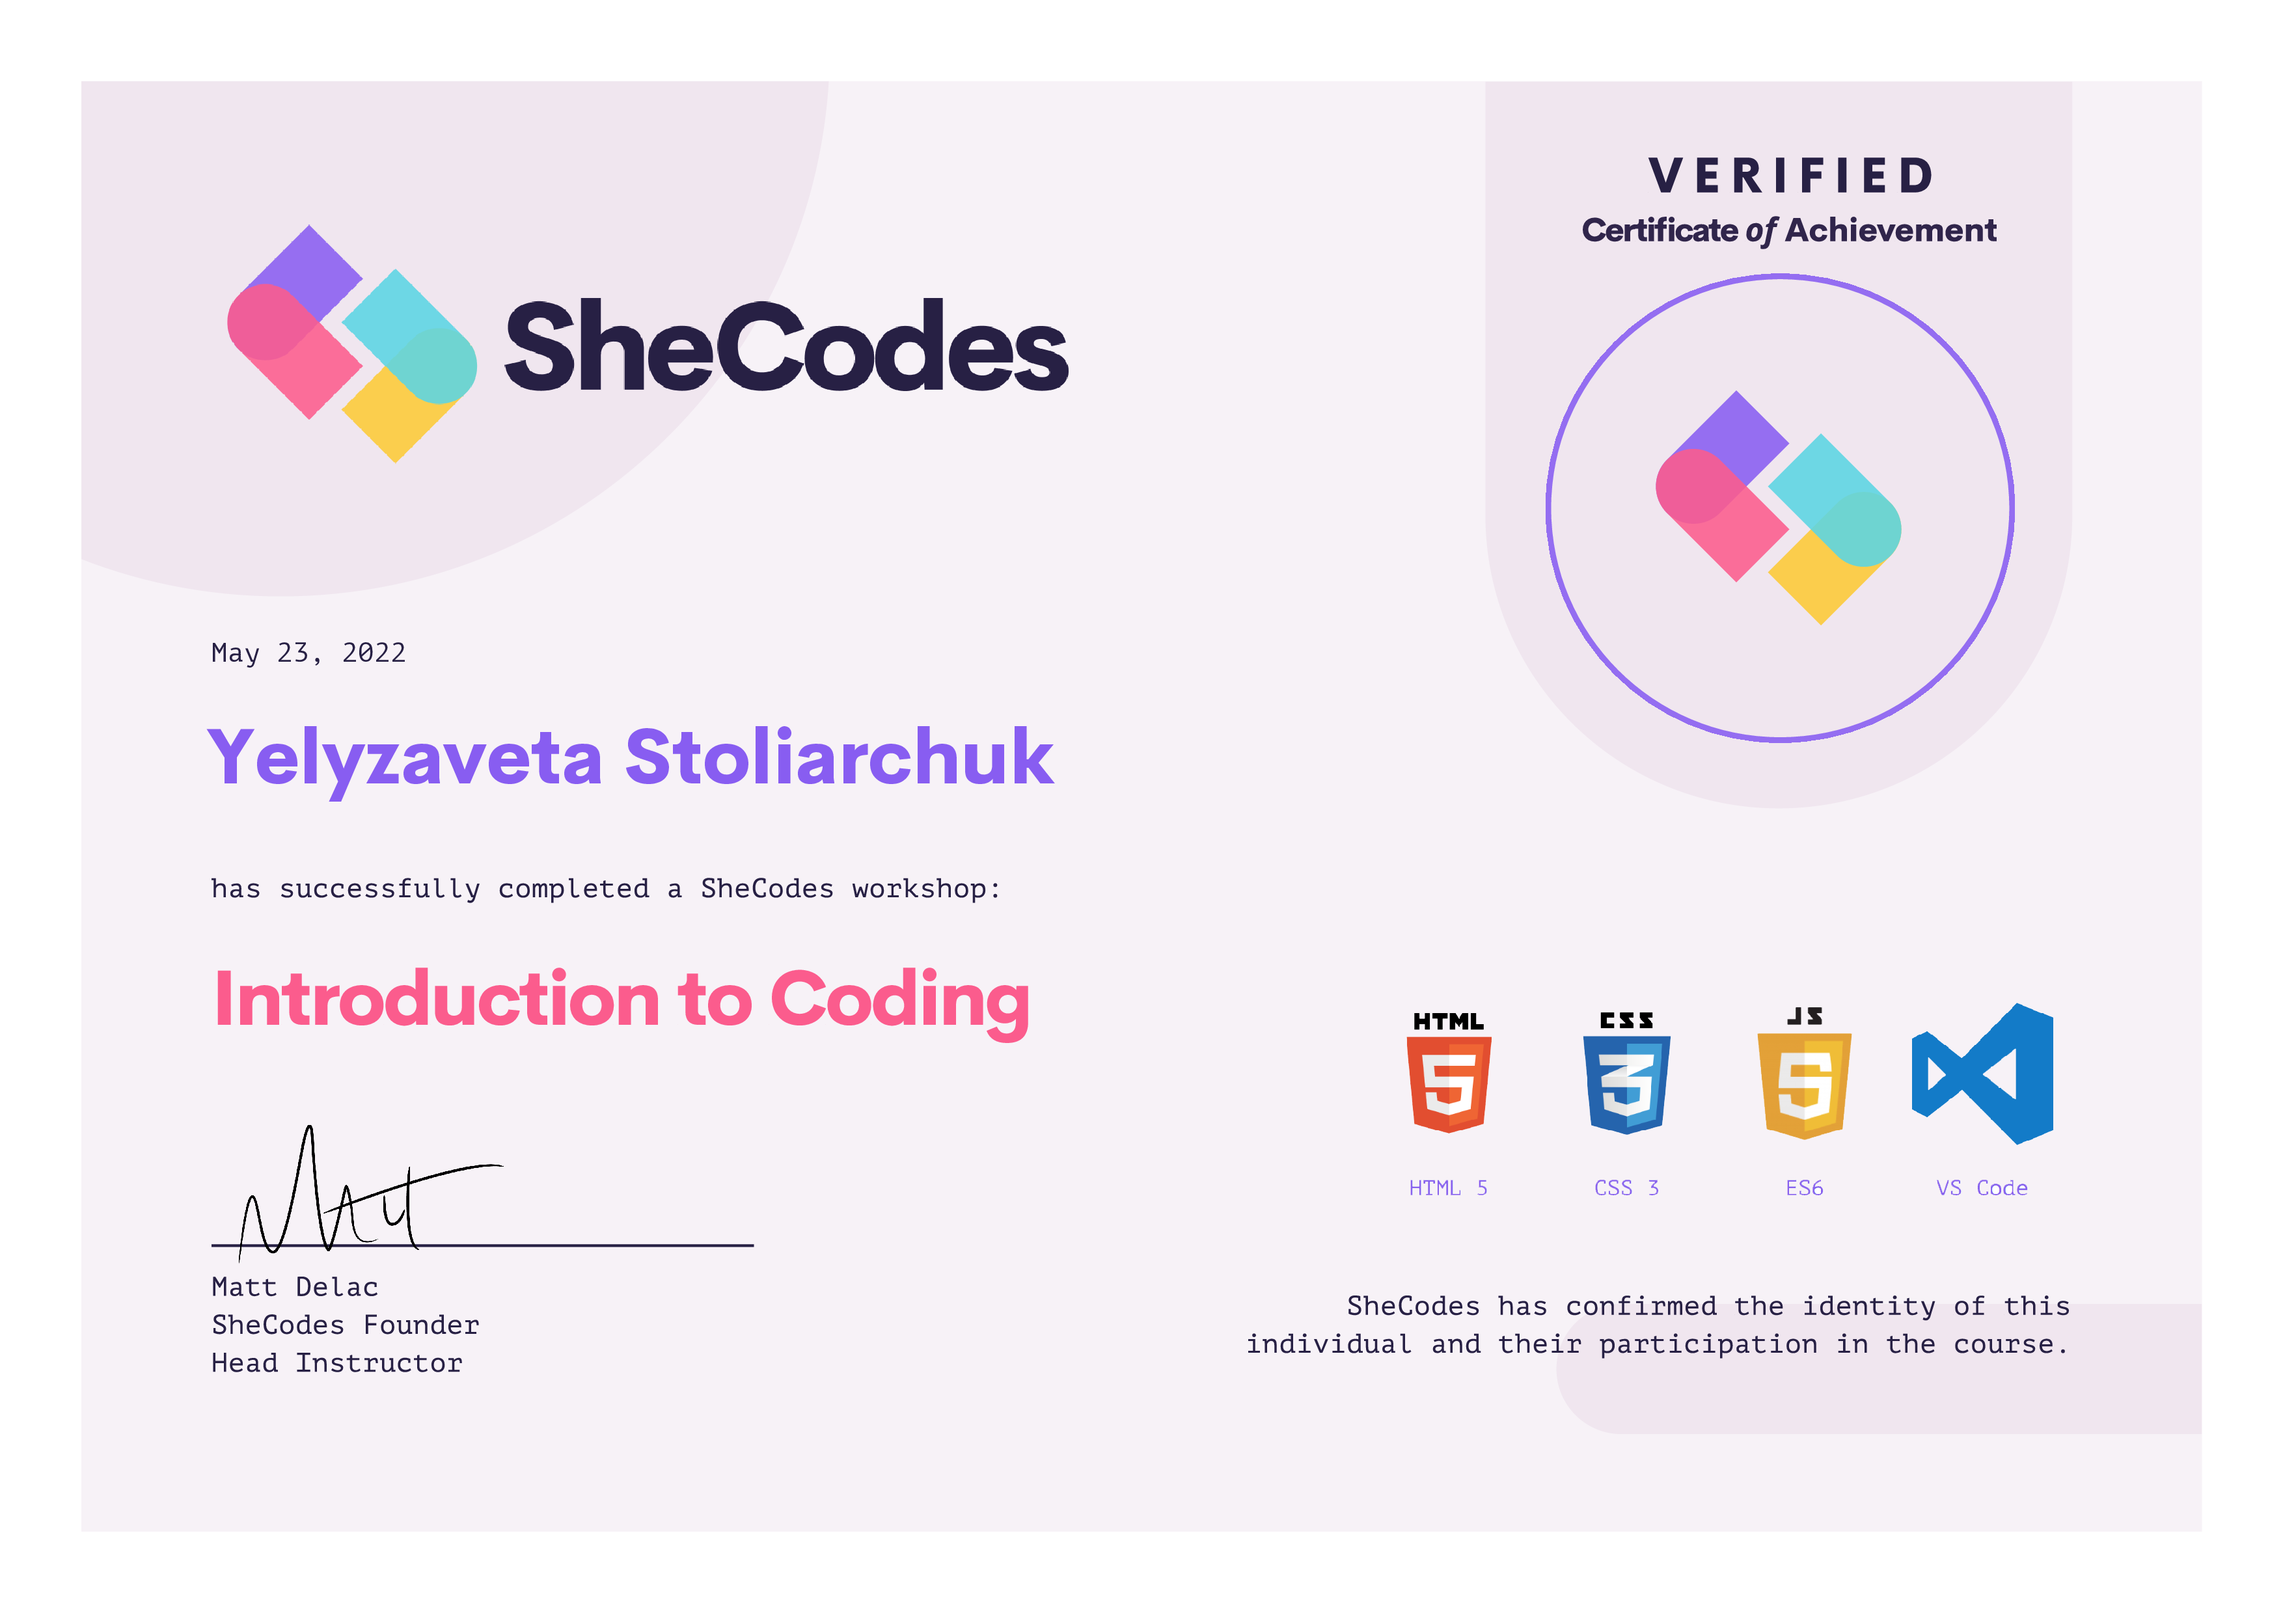
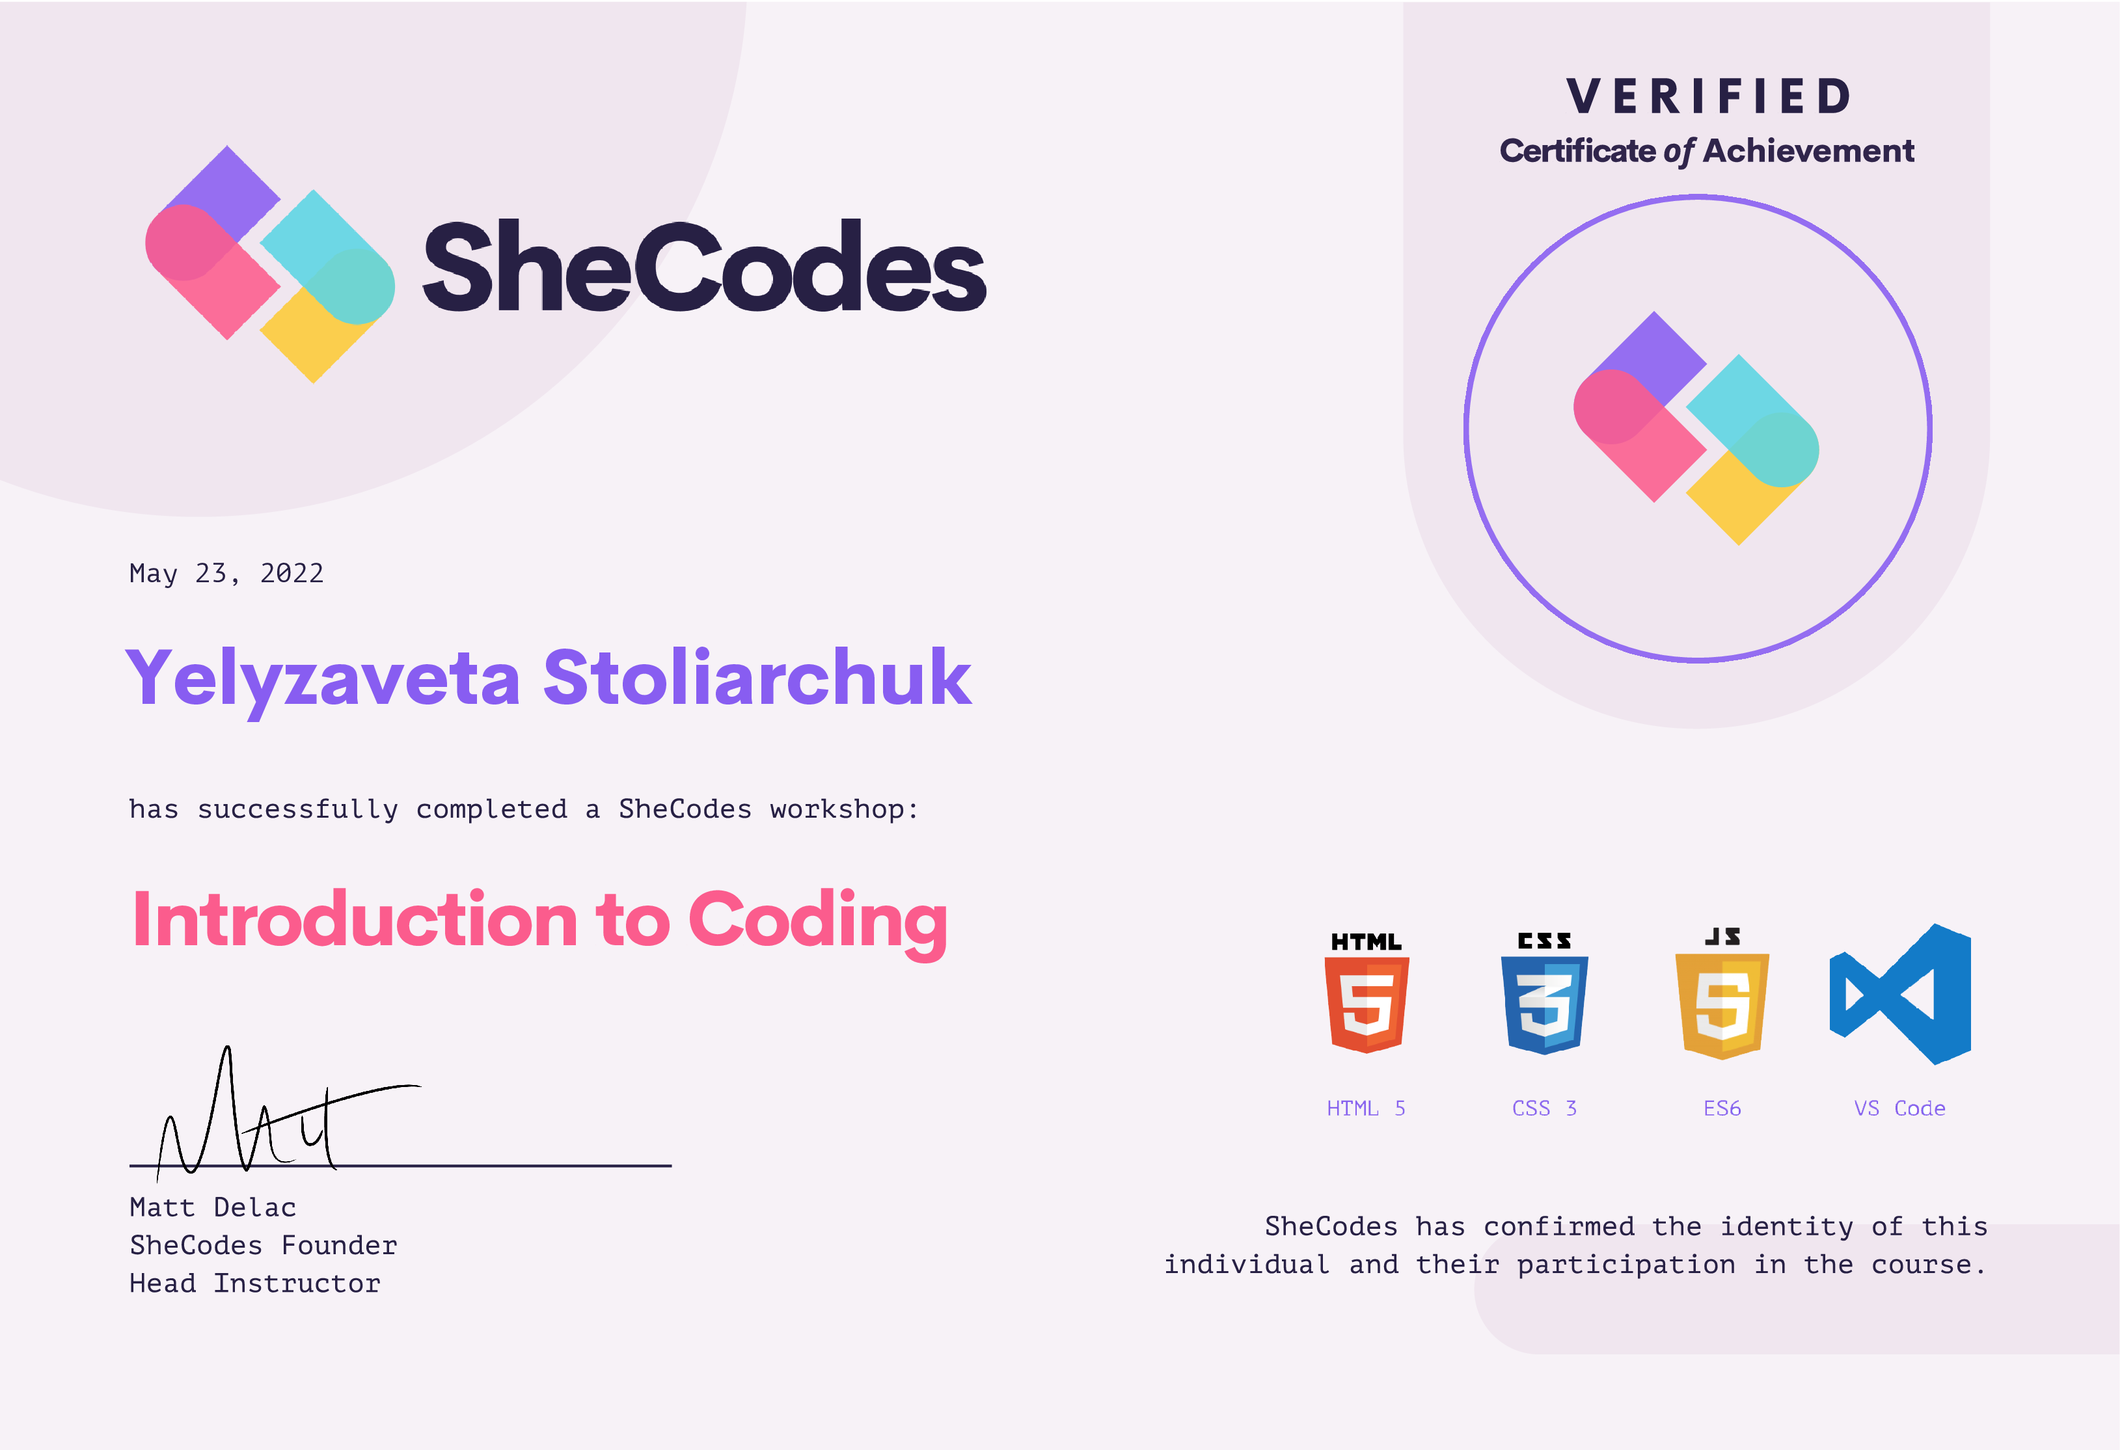
Added new certificated information + certificates style updates

diff --git a/about.html b/about.html
@@ -61,8 +61,17 @@
         <div class="content">
             <div class="row d-flex">
                 <div class="col-lg-6 mb-4">
+                    <img src="/images/udemy-bootcamp.jpg" alt="Udemy: The Web Developer Bootcamp 2022"
+                        class="img-fluid mb-3 certificate">
+                    <h3 class="text-center m-0">
+                        <a href="ude.my/UC-ea6fe40f-1209-49be-84ec-f367ecad3239"
+                            title="Verify certificate" class="custom-link" target="_blank">Udemy: The Web Developer Bootcamp 2022</a>
+                    </h3>
+                    <p class="text-center text-muted">28 August, 2022</p>
+                </div>
+                <div class="col-lg-6 mb-4">
                     <img src="/images/shecodes-responsive.png" alt="SheCodes:
-                    Responsive Web Development Certificate" class="img-fluid mb-3">
+                    Responsive Web Development Certificate" class="img-fluid mb-3 certificate">
                     <h3 class="text-center m-0">
                         <a href="https://www.shecodes.io/certificates/787fa521134d401bc42801d6c69e5a56"
                             title="Verify certificate" class="custom-link" target="_blank">SheCodes:
@@ -73,7 +82,7 @@
                 </div>
                 <div class="col-lg-6 mb-4">
                     <img src="/images/shecodes-plus.png" alt="SheCodes: Front End Development Certificate"
-                        class="img-fluid mb-3">
+                        class="img-fluid mb-3 certificate">
                     <h3 class="text-center m-0">
                         <a href="https://www.shecodes.io/certificates/ae087a3432ca8e514f7411a059b55dac"
                             title="Verify certificate" class="custom-link" target="_blank">SheCodes: Front End
@@ -83,7 +92,7 @@
                 </div>
                 <div class="col-lg-6 mb-4">
                     <img src="/images/shecodes-basics.png" alt="SheCodes: Responsive Web
-                    Development Certificate" class="img-fluid mb-3">
+                    Development Certificate" class="img-fluid mb-3 certificate">
                     <h3 class="text-center m-0">
                         <a href="https://www.shecodes.io/certificates/88f62bb23db2607234c249fc0f6454d1"
                             title="Verify certificate" class="custom-link" target="_blank">SheCodes: Introduction to
@@ -93,7 +102,7 @@
                 </div>
                 <div class="col-lg-6 mb-4">
                     <img src="/images/coursera-react.jpeg" alt="Coursera: 
-                        Front-End Web Development with React Certificate" class="img-fluid mb-3">
+                        Front-End Web Development with React Certificate" class="img-fluid mb-3 certificate">
                     <h3 class="text-center m-0">
                         <a href=" https://coursera.org/share/40dd0999041b4858e447bf2fa0908794"
                             title="Verify certificate" class="custom-link" target="_blank">Coursera:
@@ -104,7 +113,7 @@
                 <div class="col-lg-6 mb-4">
                     <img src="/images/coursera-bootstrap.jpeg"
                         alt="Coursera: Front-End Web UI Frameworks and Tools: Bootstrap 4 Certificate"
-                        class="img-fluid mb-3">
+                        class="img-fluid mb-3 certificate">
                     <h3 class="text-center m-0">
                         <a href="https://coursera.org/share/a1ae33750e2c46affdfe3a2b72e18d17" title="Verify certificate"
                             class="custom-link" target="_blank">Coursera: Front-End Web UI
@@ -114,7 +123,7 @@
                 </div>
                 <div class="col-lg-6">
                     <img src="/images/coursera-basics.jpeg"
-                        alt="Coursera: HTML, CSS, and Javascript for Web Developers Certificate" class="img-fluid mb-3">
+                        alt="Coursera: HTML, CSS, and Javascript for Web Developers Certificate" class="img-fluid mb-3 certificate">
                     <h3 class="text-center m-0">
                         <a href="https://coursera.org/share/6c44e177db5ed5794180c3ec0097725a" title="Verify certificate"
                             class="custom-link" target="_blank">Coursera: HTML, CSS, and

diff --git a/styles/portfolio.css b/styles/portfolio.css
@@ -153,6 +153,12 @@ a {
     color: var(--primary-color);
 }
 
+.certificate {
+    max-height: 350px;
+    display: block;
+    margin: 0 auto;
+}
+
 nav {
     padding: 10px 50px;
     background-color: rgba(255, 255, 255, 0.95);
